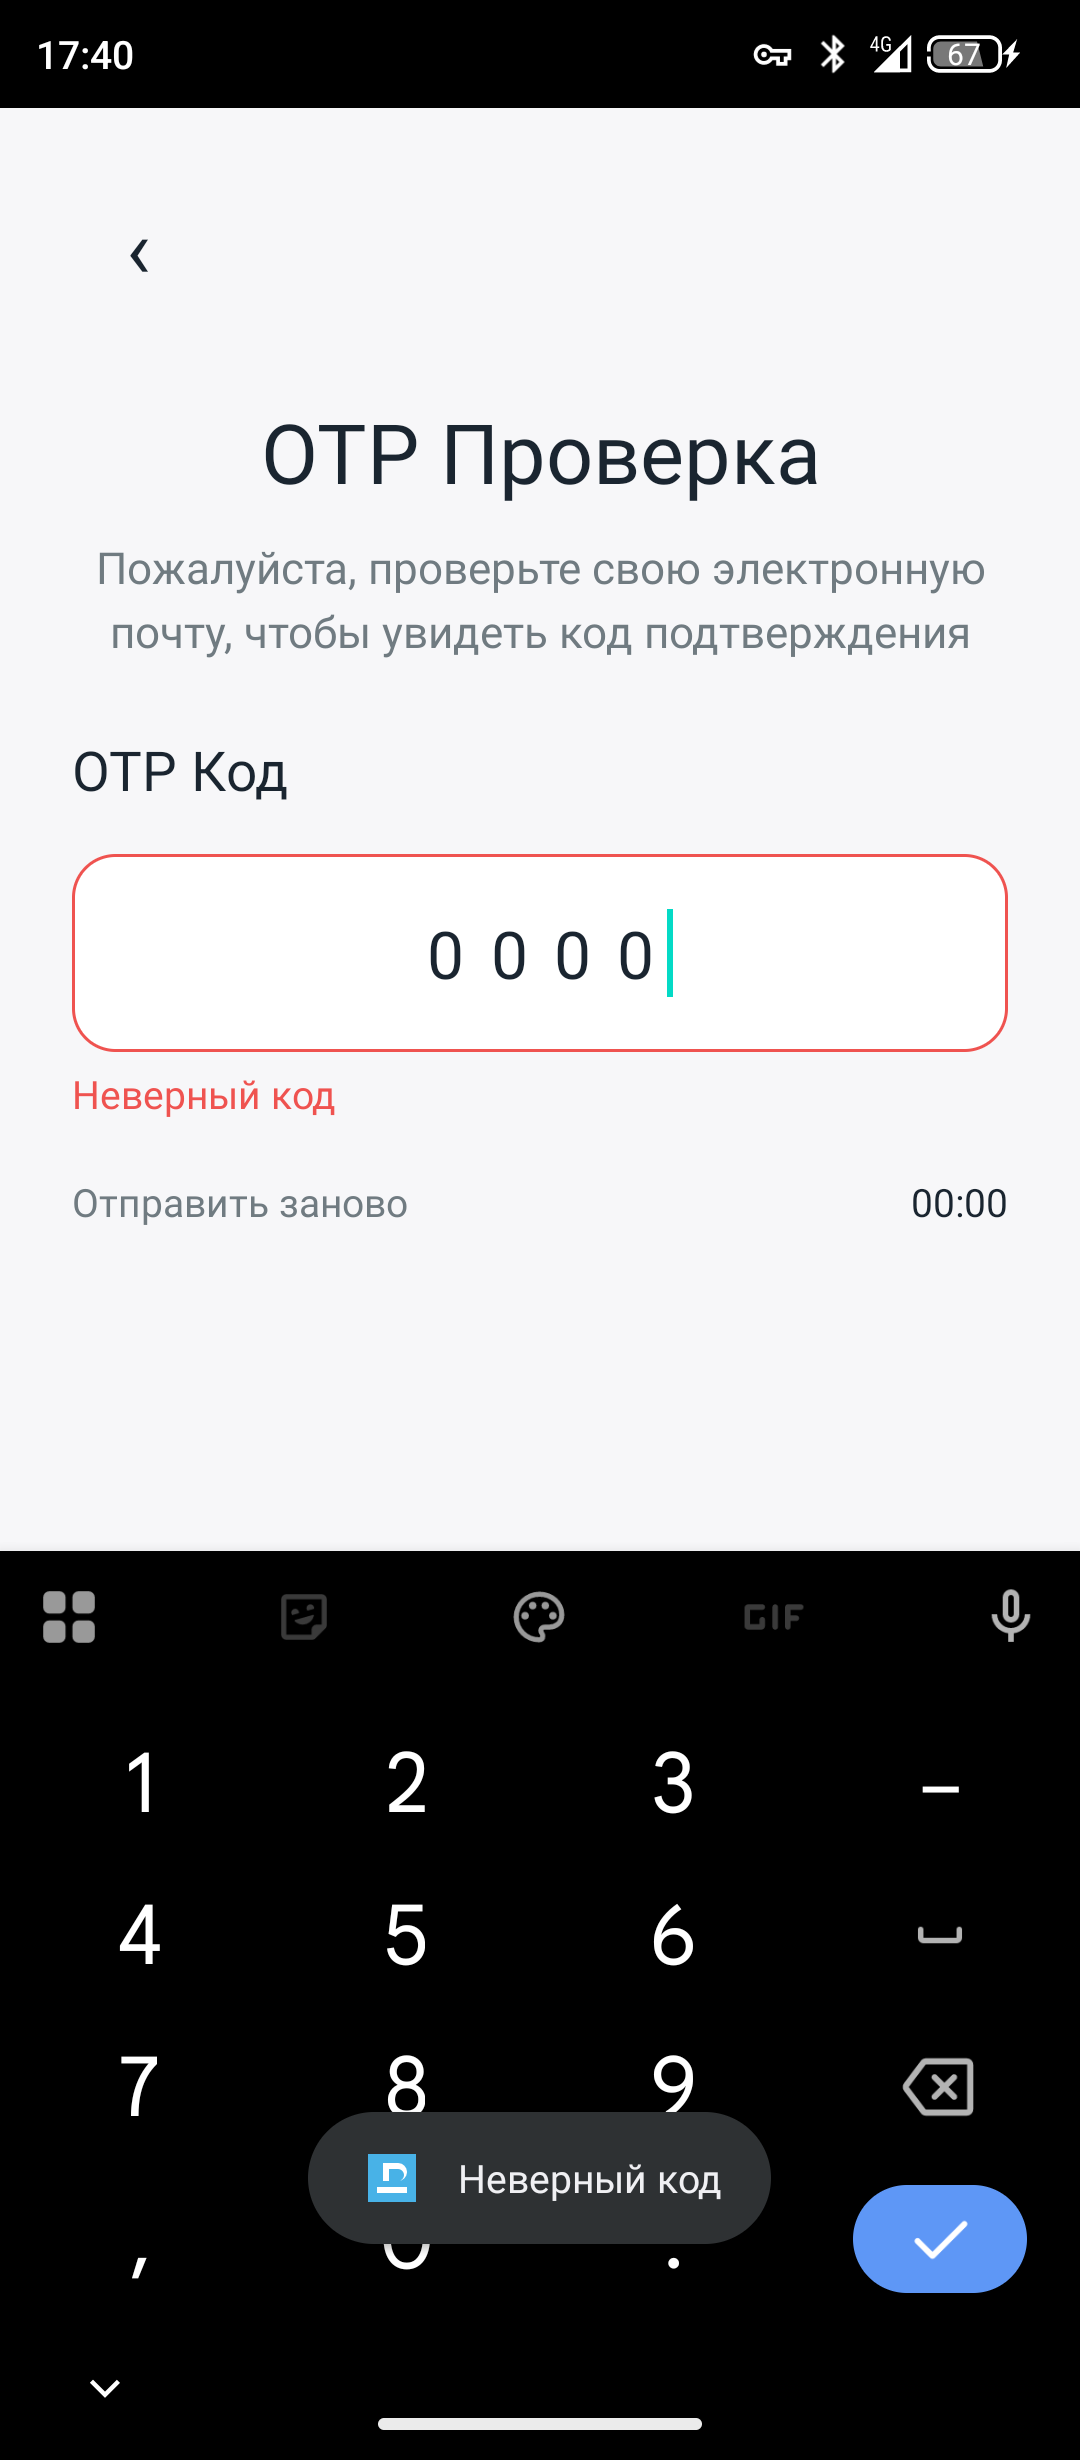
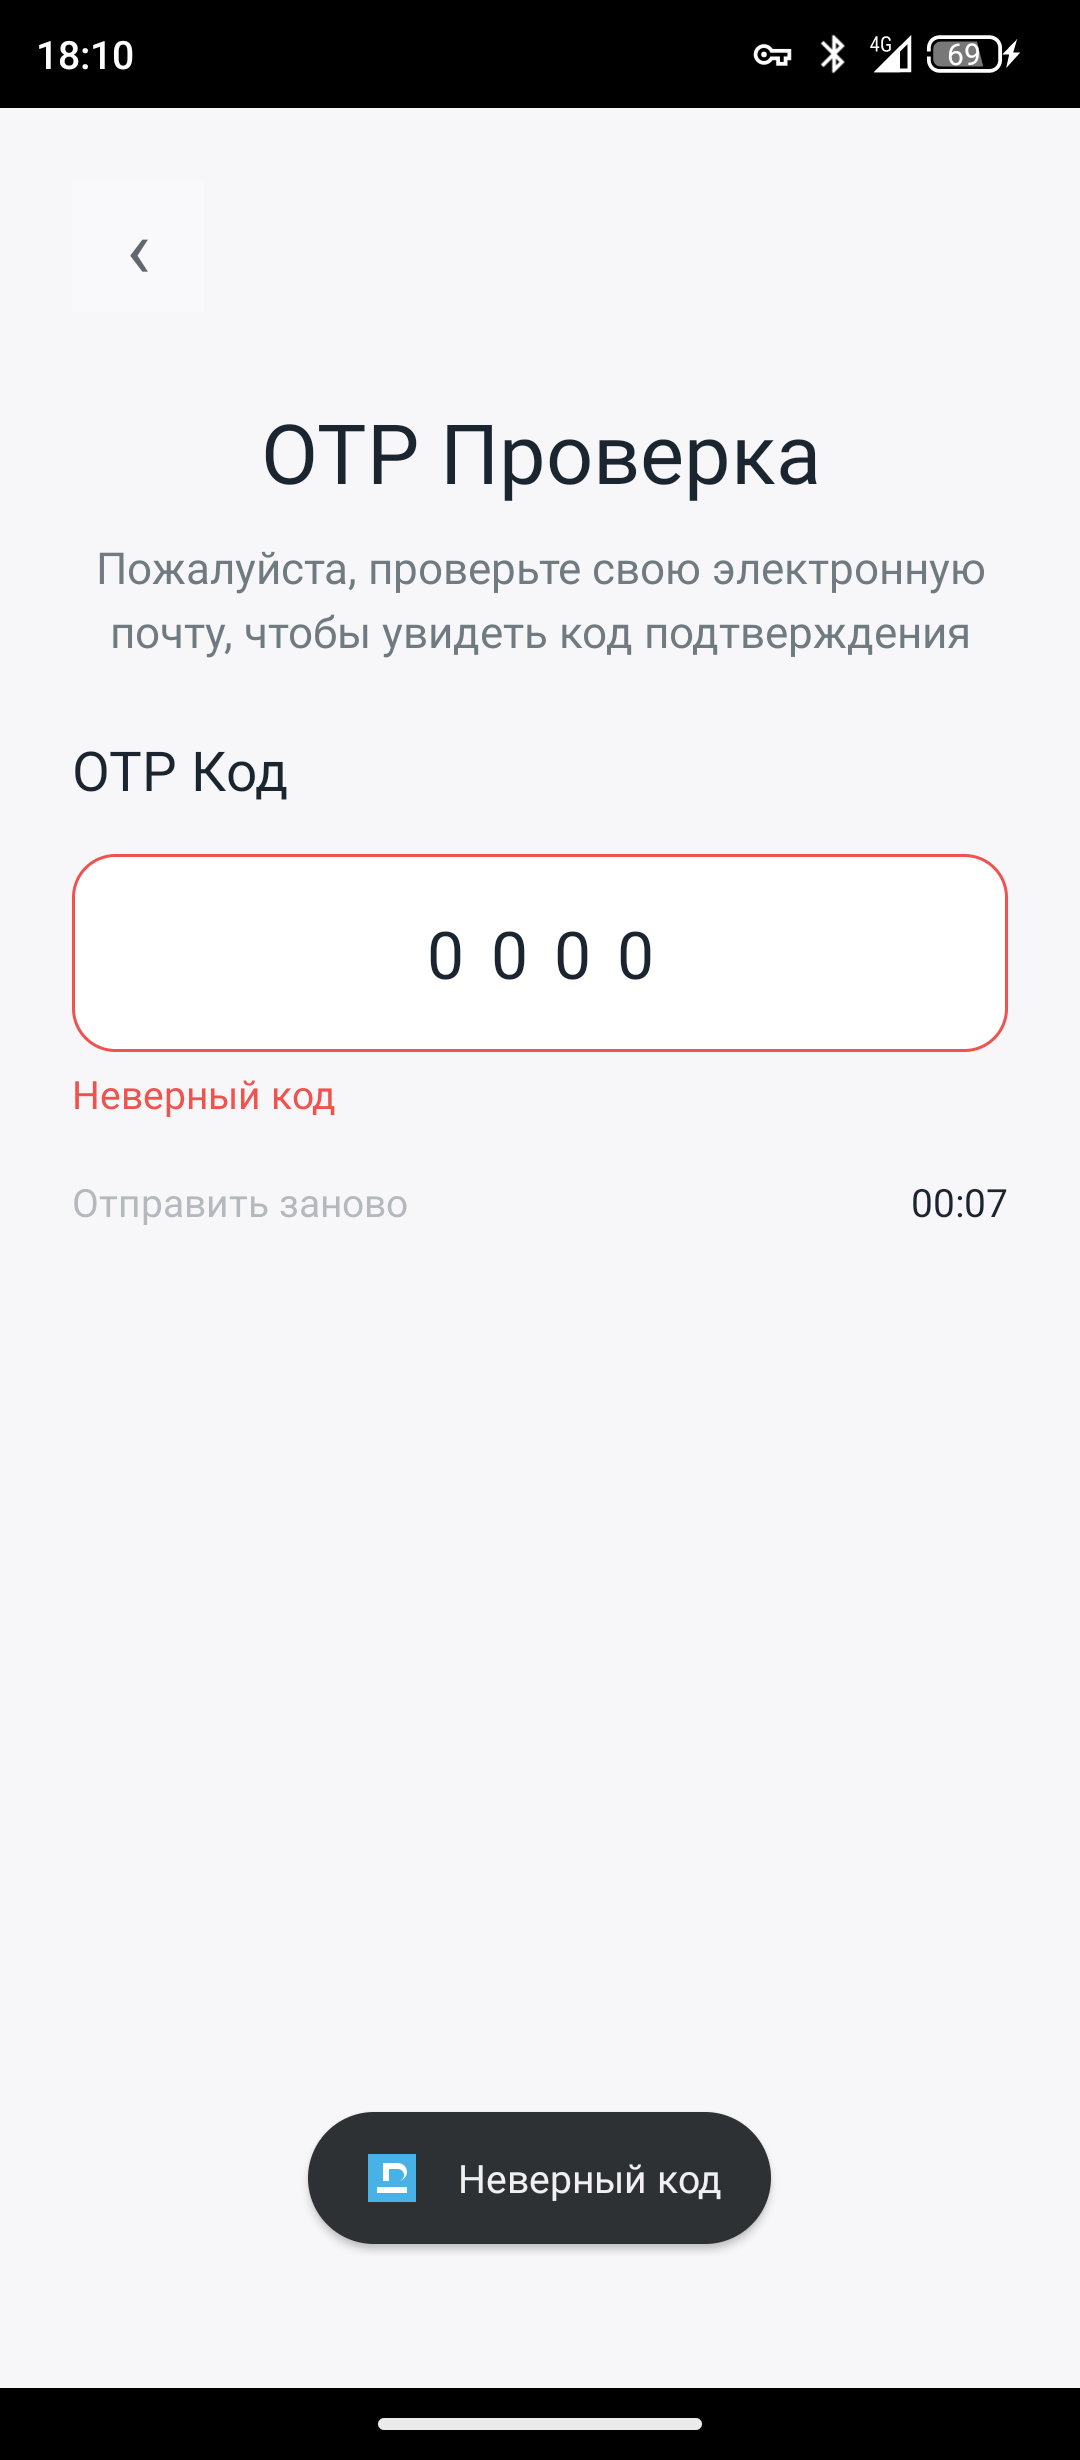
Polish Sprint 2 UI

diff --git a/app/src/main/java/com/example/matule/presentation/auth/update/UpdatePasswordFragment.kt b/app/src/main/java/com/example/matule/presentation/auth/update/UpdatePasswordFragment.kt
@@ -1,5 +1,6 @@
 package com.example.matule.presentation.auth.update
 
+import android.content.res.ColorStateList
 import android.os.Bundle
 import android.text.Editable
 import android.text.InputType
@@ -19,6 +20,7 @@ import com.example.matule.common.validation.PasswordStrength
 import com.example.matule.common.validation.PasswordStrengthCalculator
 import com.example.matule.common.validation.Sprint2ValidationResult
 import com.example.matule.common.validation.UpdatePasswordValidator
+import com.example.matule.presentation.common.KeyboardHelper
 import com.google.android.material.button.MaterialButton
 
 /**
@@ -96,7 +98,7 @@ class UpdatePasswordFragment : Fragment() {
     private fun updateFormState() {
         renderStrength(newPasswordEditText.text?.toString().orEmpty())
         saveButton.isEnabled = isCurrentFormValid()
-        saveButton.alpha = if (saveButton.isEnabled) ENABLED_ALPHA else DISABLED_ALPHA
+        renderSaveButton()
     }
 
     private fun renderStrength(password: String) {
@@ -132,8 +134,21 @@ class UpdatePasswordFragment : Fragment() {
             captchaInput = captchaEditText.text?.toString().orEmpty()
         )) {
             is Sprint2ValidationResult.Error -> showErrorDialog(toRussianMessage(result.message))
-            Sprint2ValidationResult.Success -> findNavController().navigate(R.id.action_updatePasswordFragment_to_homeFragment)
+            Sprint2ValidationResult.Success -> {
+                KeyboardHelper.hideKeyboard(this)
+                findNavController().navigate(R.id.action_updatePasswordFragment_to_homeFragment)
+            }
         }
+    }
+
+    private fun renderSaveButton() {
+        val buttonColor = if (saveButton.isEnabled) {
+            requireContext().getColor(R.color.matule_primary)
+        } else {
+            requireContext().getColor(R.color.matule_primary_disabled)
+        }
+        saveButton.backgroundTintList = ColorStateList.valueOf(buttonColor)
+        saveButton.alpha = ENABLED_ALPHA
     }
 
     private fun toggleNewPasswordVisibility() {
@@ -156,6 +171,7 @@ class UpdatePasswordFragment : Fragment() {
     }
 
     private fun showErrorDialog(message: String) {
+        KeyboardHelper.hideKeyboard(this)
         AlertDialog.Builder(requireContext())
             .setTitle(R.string.validation_error_title)
             .setMessage(message)
@@ -178,6 +194,5 @@ class UpdatePasswordFragment : Fragment() {
     private companion object {
         const val EXPECTED_CAPTCHA = "A7K9"
         const val ENABLED_ALPHA = 1.0f
-        const val DISABLED_ALPHA = 0.5f
     }
 }

diff --git a/app/src/main/java/com/example/matule/presentation/auth/signup/SignUpFragment.kt b/app/src/main/java/com/example/matule/presentation/auth/signup/SignUpFragment.kt
@@ -15,6 +15,7 @@ import androidx.navigation.fragment.findNavController
 import com.example.matule.R
 import com.example.matule.common.validation.SignUpValidator
 import com.example.matule.common.validation.Sprint2ValidationResult
+import com.example.matule.presentation.common.KeyboardHelper
 import com.google.android.material.button.MaterialButton
 
 /**
@@ -90,7 +91,10 @@ class SignUpFragment : Fragment() {
 
         when (result) {
             is Sprint2ValidationResult.Error -> showErrorDialog(toRussianMessage(result.message))
-            Sprint2ValidationResult.Success -> findNavController().navigate(R.id.action_signUpFragment_to_homeFragment)
+            Sprint2ValidationResult.Success -> {
+                KeyboardHelper.hideKeyboard(this)
+                findNavController().navigate(R.id.action_signUpFragment_to_homeFragment)
+            }
         }
     }
 
@@ -106,6 +110,7 @@ class SignUpFragment : Fragment() {
 
     private fun showPrivacyPolicyDialog() {
         // TODO: replace with real PDF policy file if provided.
+        KeyboardHelper.hideKeyboard(this)
         AlertDialog.Builder(requireContext())
             .setTitle(R.string.privacy_policy_title)
             .setMessage(R.string.privacy_policy_message)
@@ -114,6 +119,7 @@ class SignUpFragment : Fragment() {
     }
 
     private fun showErrorDialog(message: String) {
+        KeyboardHelper.hideKeyboard(this)
         AlertDialog.Builder(requireContext())
             .setTitle(R.string.validation_error_title)
             .setMessage(message)

diff --git a/app/src/main/java/com/example/matule/presentation/auth/otp/OtpVerificationFragment.kt b/app/src/main/java/com/example/matule/presentation/auth/otp/OtpVerificationFragment.kt
@@ -17,6 +17,7 @@ import com.example.matule.R
 import com.example.matule.common.validation.OtpTimerLogic
 import com.example.matule.common.validation.OtpValidator
 import com.example.matule.common.validation.Sprint2ValidationResult
+import com.example.matule.presentation.common.KeyboardHelper
 
 /**
  * Purpose: Shows Sprint 2 OTP verification screen with simple timer and local code check.
@@ -105,11 +106,15 @@ class OtpVerificationFragment : Fragment() {
     private fun validateOtp(otp: String) {
         when (otpValidator.validate(otp)) {
             is Sprint2ValidationResult.Error -> showOtpError()
-            Sprint2ValidationResult.Success -> findNavController().navigate(R.id.action_otpVerificationFragment_to_updatePasswordFragment)
+            Sprint2ValidationResult.Success -> {
+                KeyboardHelper.hideKeyboard(this)
+                findNavController().navigate(R.id.action_otpVerificationFragment_to_updatePasswordFragment)
+            }
         }
     }
 
     private fun showOtpError() {
+        KeyboardHelper.hideKeyboard(this)
         otpEditText.setBackgroundResource(R.drawable.bg_input_error)
         errorTextView.visibility = View.VISIBLE
         Toast.makeText(requireContext(), R.string.otp_wrong_code, Toast.LENGTH_SHORT).show()

diff --git a/app/src/main/java/com/example/matule/presentation/auth/SignInFragment.kt b/app/src/main/java/com/example/matule/presentation/auth/SignInFragment.kt
@@ -16,6 +16,7 @@ import androidx.navigation.fragment.findNavController
 import com.example.matule.R
 import com.example.matule.common.validation.SignInValidationResult
 import com.example.matule.common.validation.SignInValidator
+import com.example.matule.presentation.common.KeyboardHelper
 
 /**
  * Purpose: Shows Sprint 1 Sign In screen with local validation and mock login.
@@ -88,6 +89,7 @@ class SignInFragment : Fragment() {
         when (val result = signInValidator.validate(email, password)) {
             is SignInValidationResult.Error -> showErrorDialog(toRussianMessage(result.message))
             SignInValidationResult.Success -> {
+                KeyboardHelper.hideKeyboard(this)
                 Toast.makeText(requireContext(), R.string.mock_login_success, Toast.LENGTH_SHORT).show()
                 findNavController().navigate(R.id.action_signInFragment_to_homeFragment)
             }
@@ -123,6 +125,7 @@ class SignInFragment : Fragment() {
      * Purpose: Shows validation message in a user-closed dialog.
      */
     private fun showErrorDialog(message: String) {
+        KeyboardHelper.hideKeyboard(this)
         AlertDialog.Builder(requireContext())
             .setTitle(R.string.validation_error_title)
             .setMessage(message)

diff --git a/app/src/main/java/com/example/matule/presentation/auth/forgot/ForgotPasswordFragment.kt b/app/src/main/java/com/example/matule/presentation/auth/forgot/ForgotPasswordFragment.kt
@@ -12,6 +12,7 @@ import androidx.navigation.fragment.findNavController
 import com.example.matule.R
 import com.example.matule.common.validation.ForgotPasswordValidator
 import com.example.matule.common.validation.Sprint2ValidationResult
+import com.example.matule.presentation.common.KeyboardHelper
 import com.google.android.material.button.MaterialButton
 
 /**
@@ -57,6 +58,7 @@ class ForgotPasswordFragment : Fragment() {
     }
 
     private fun showEmailSentDialog() {
+        KeyboardHelper.hideKeyboard(this)
         AlertDialog.Builder(requireContext())
             .setTitle(R.string.forgot_password_dialog_title)
             .setMessage(R.string.forgot_password_dialog_message)
@@ -67,6 +69,7 @@ class ForgotPasswordFragment : Fragment() {
     }
 
     private fun showErrorDialog(message: String) {
+        KeyboardHelper.hideKeyboard(this)
         AlertDialog.Builder(requireContext())
             .setTitle(R.string.validation_error_title)
             .setMessage(message)

diff --git a/app/src/main/java/com/example/matule/presentation/common/KeyboardHelper.kt b/app/src/main/java/com/example/matule/presentation/common/KeyboardHelper.kt
@@ -1,0 +1,28 @@
+package com.example.matule.presentation.common
+
+import android.content.Context
+import android.view.View
+import android.view.inputmethod.InputMethodManager
+import androidx.fragment.app.Fragment
+
+/**
+ * Purpose: Provides small keyboard utility methods for XML auth screens.
+ * Creation date: 2026-06-07
+ * Author: Mors
+ */
+object KeyboardHelper {
+
+    /**
+     * Purpose: Hides soft keyboard and clears focus before dialogs or navigation.
+     */
+    fun hideKeyboard(fragment: Fragment) {
+        val view = fragment.view ?: return
+        hideKeyboard(view)
+        view.clearFocus()
+    }
+
+    private fun hideKeyboard(view: View) {
+        val inputMethodManager = view.context.getSystemService(Context.INPUT_METHOD_SERVICE) as InputMethodManager
+        inputMethodManager.hideSoftInputFromWindow(view.windowToken, 0)
+    }
+}
